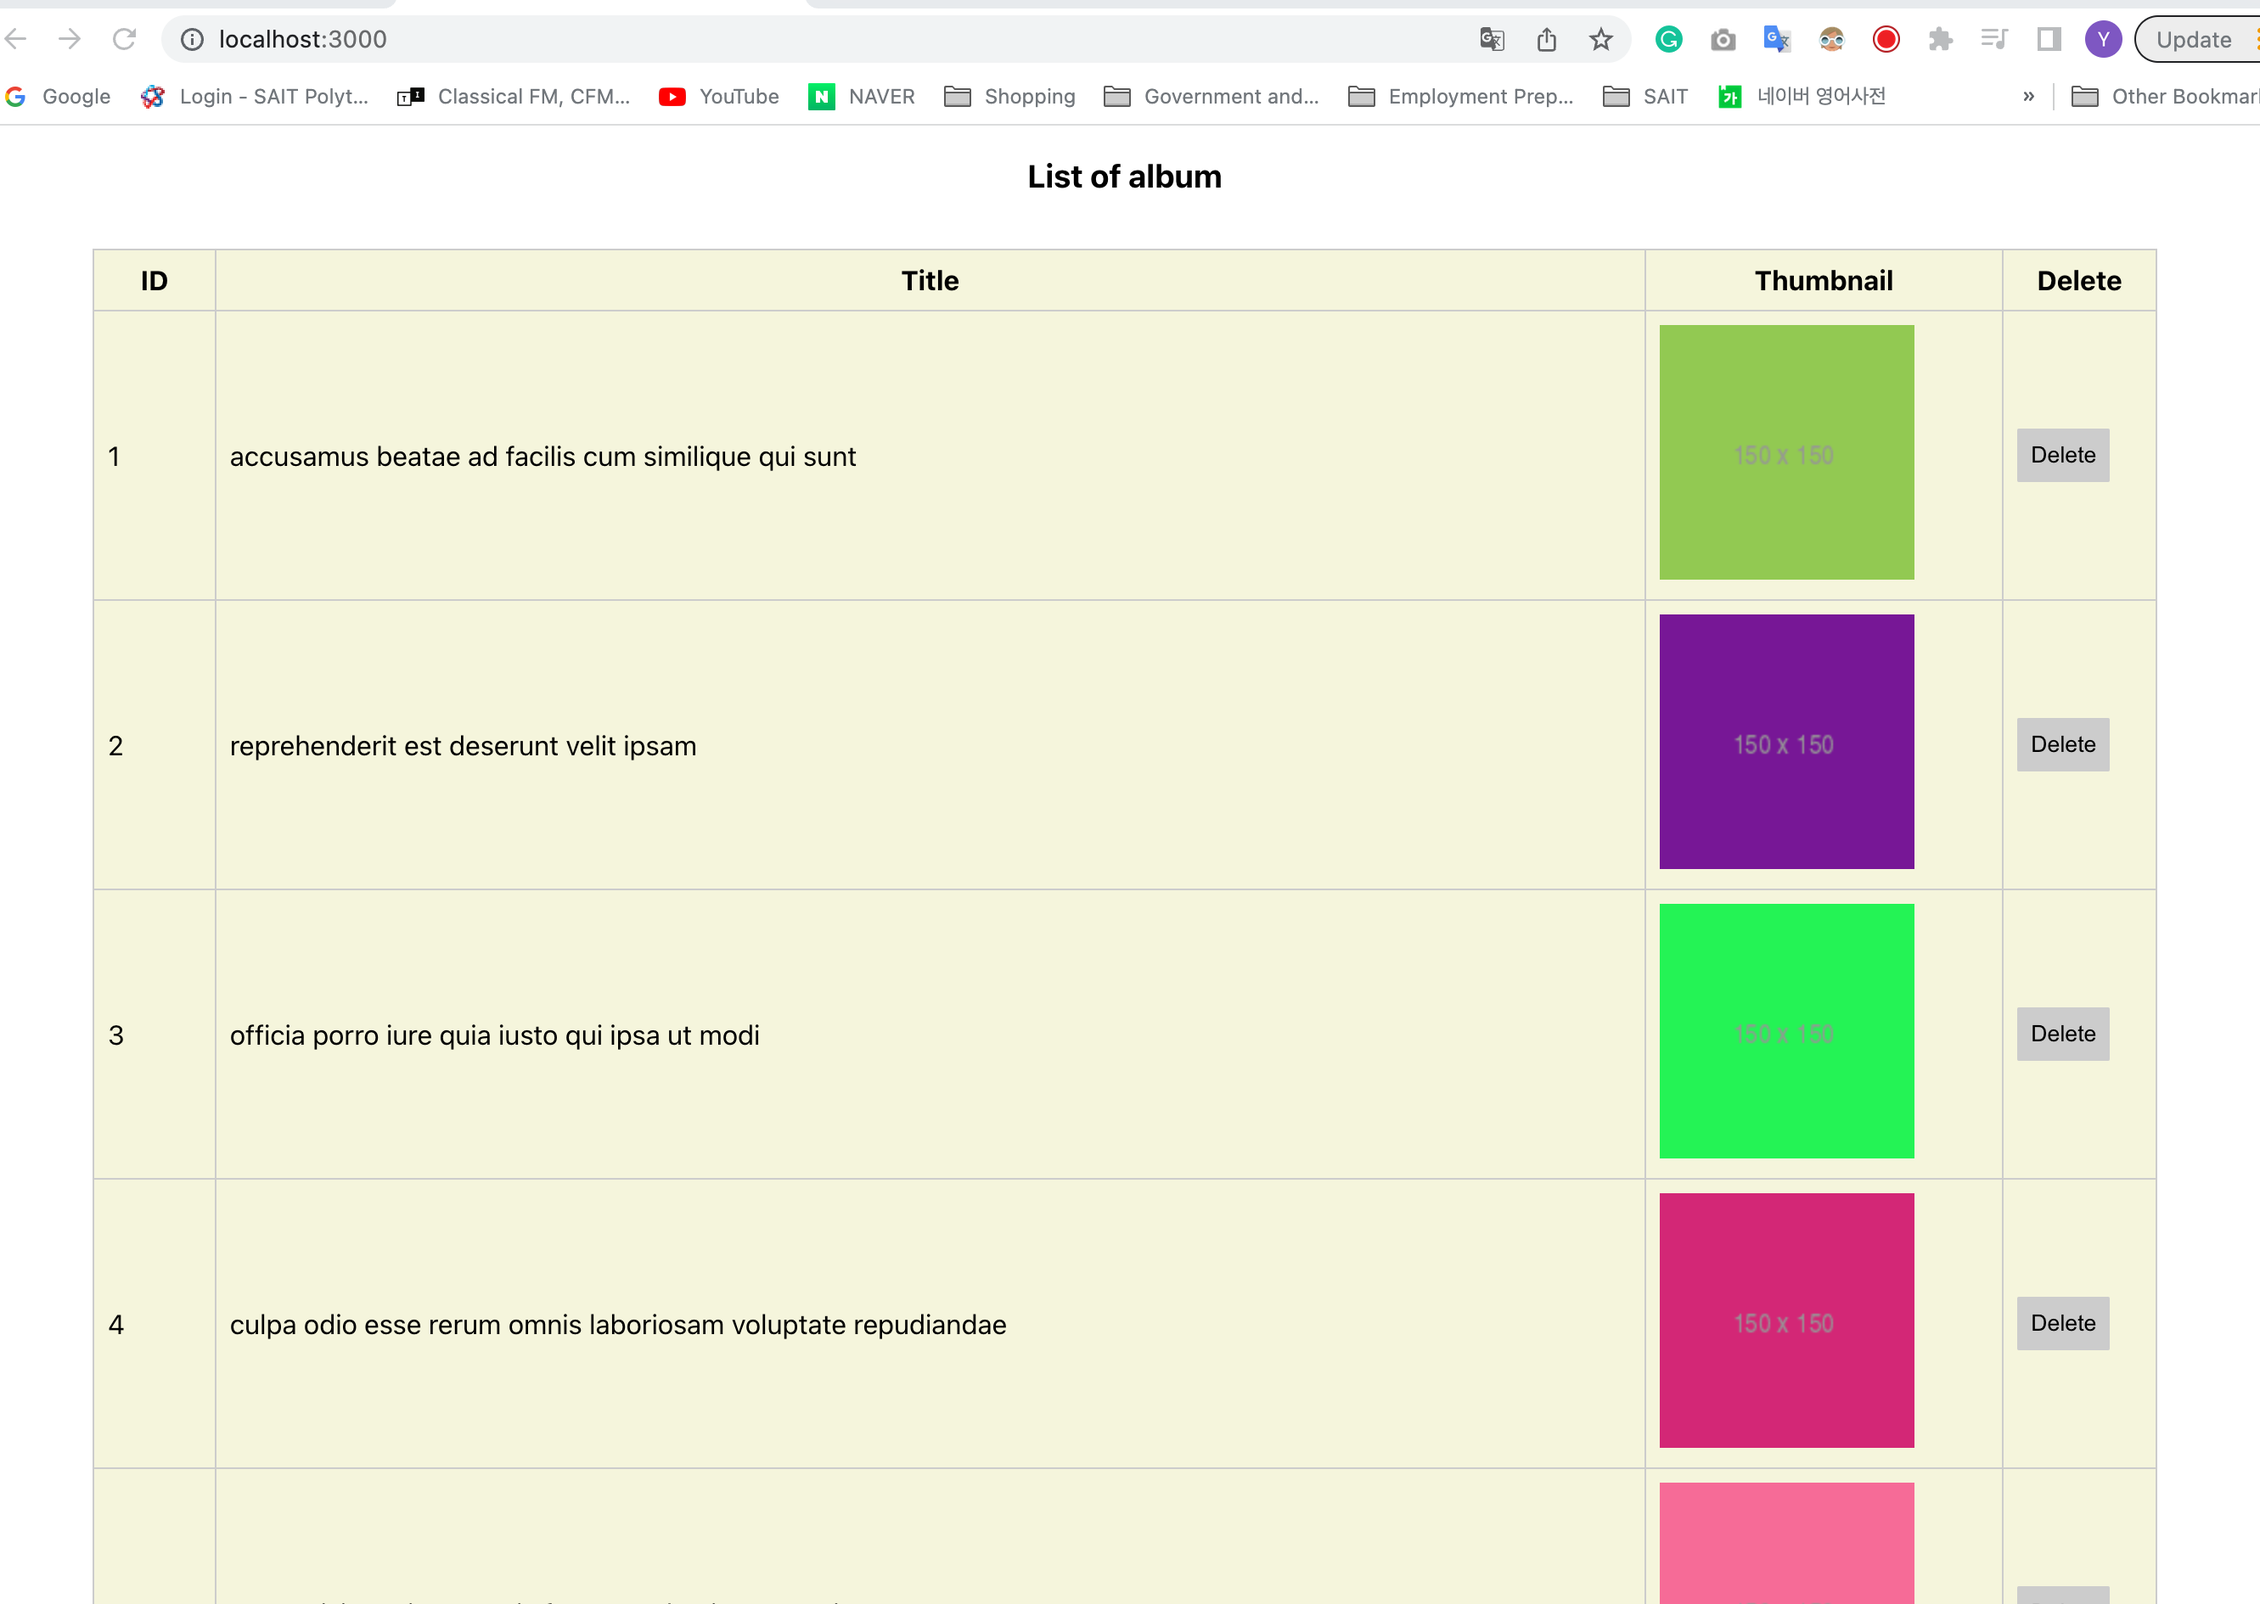
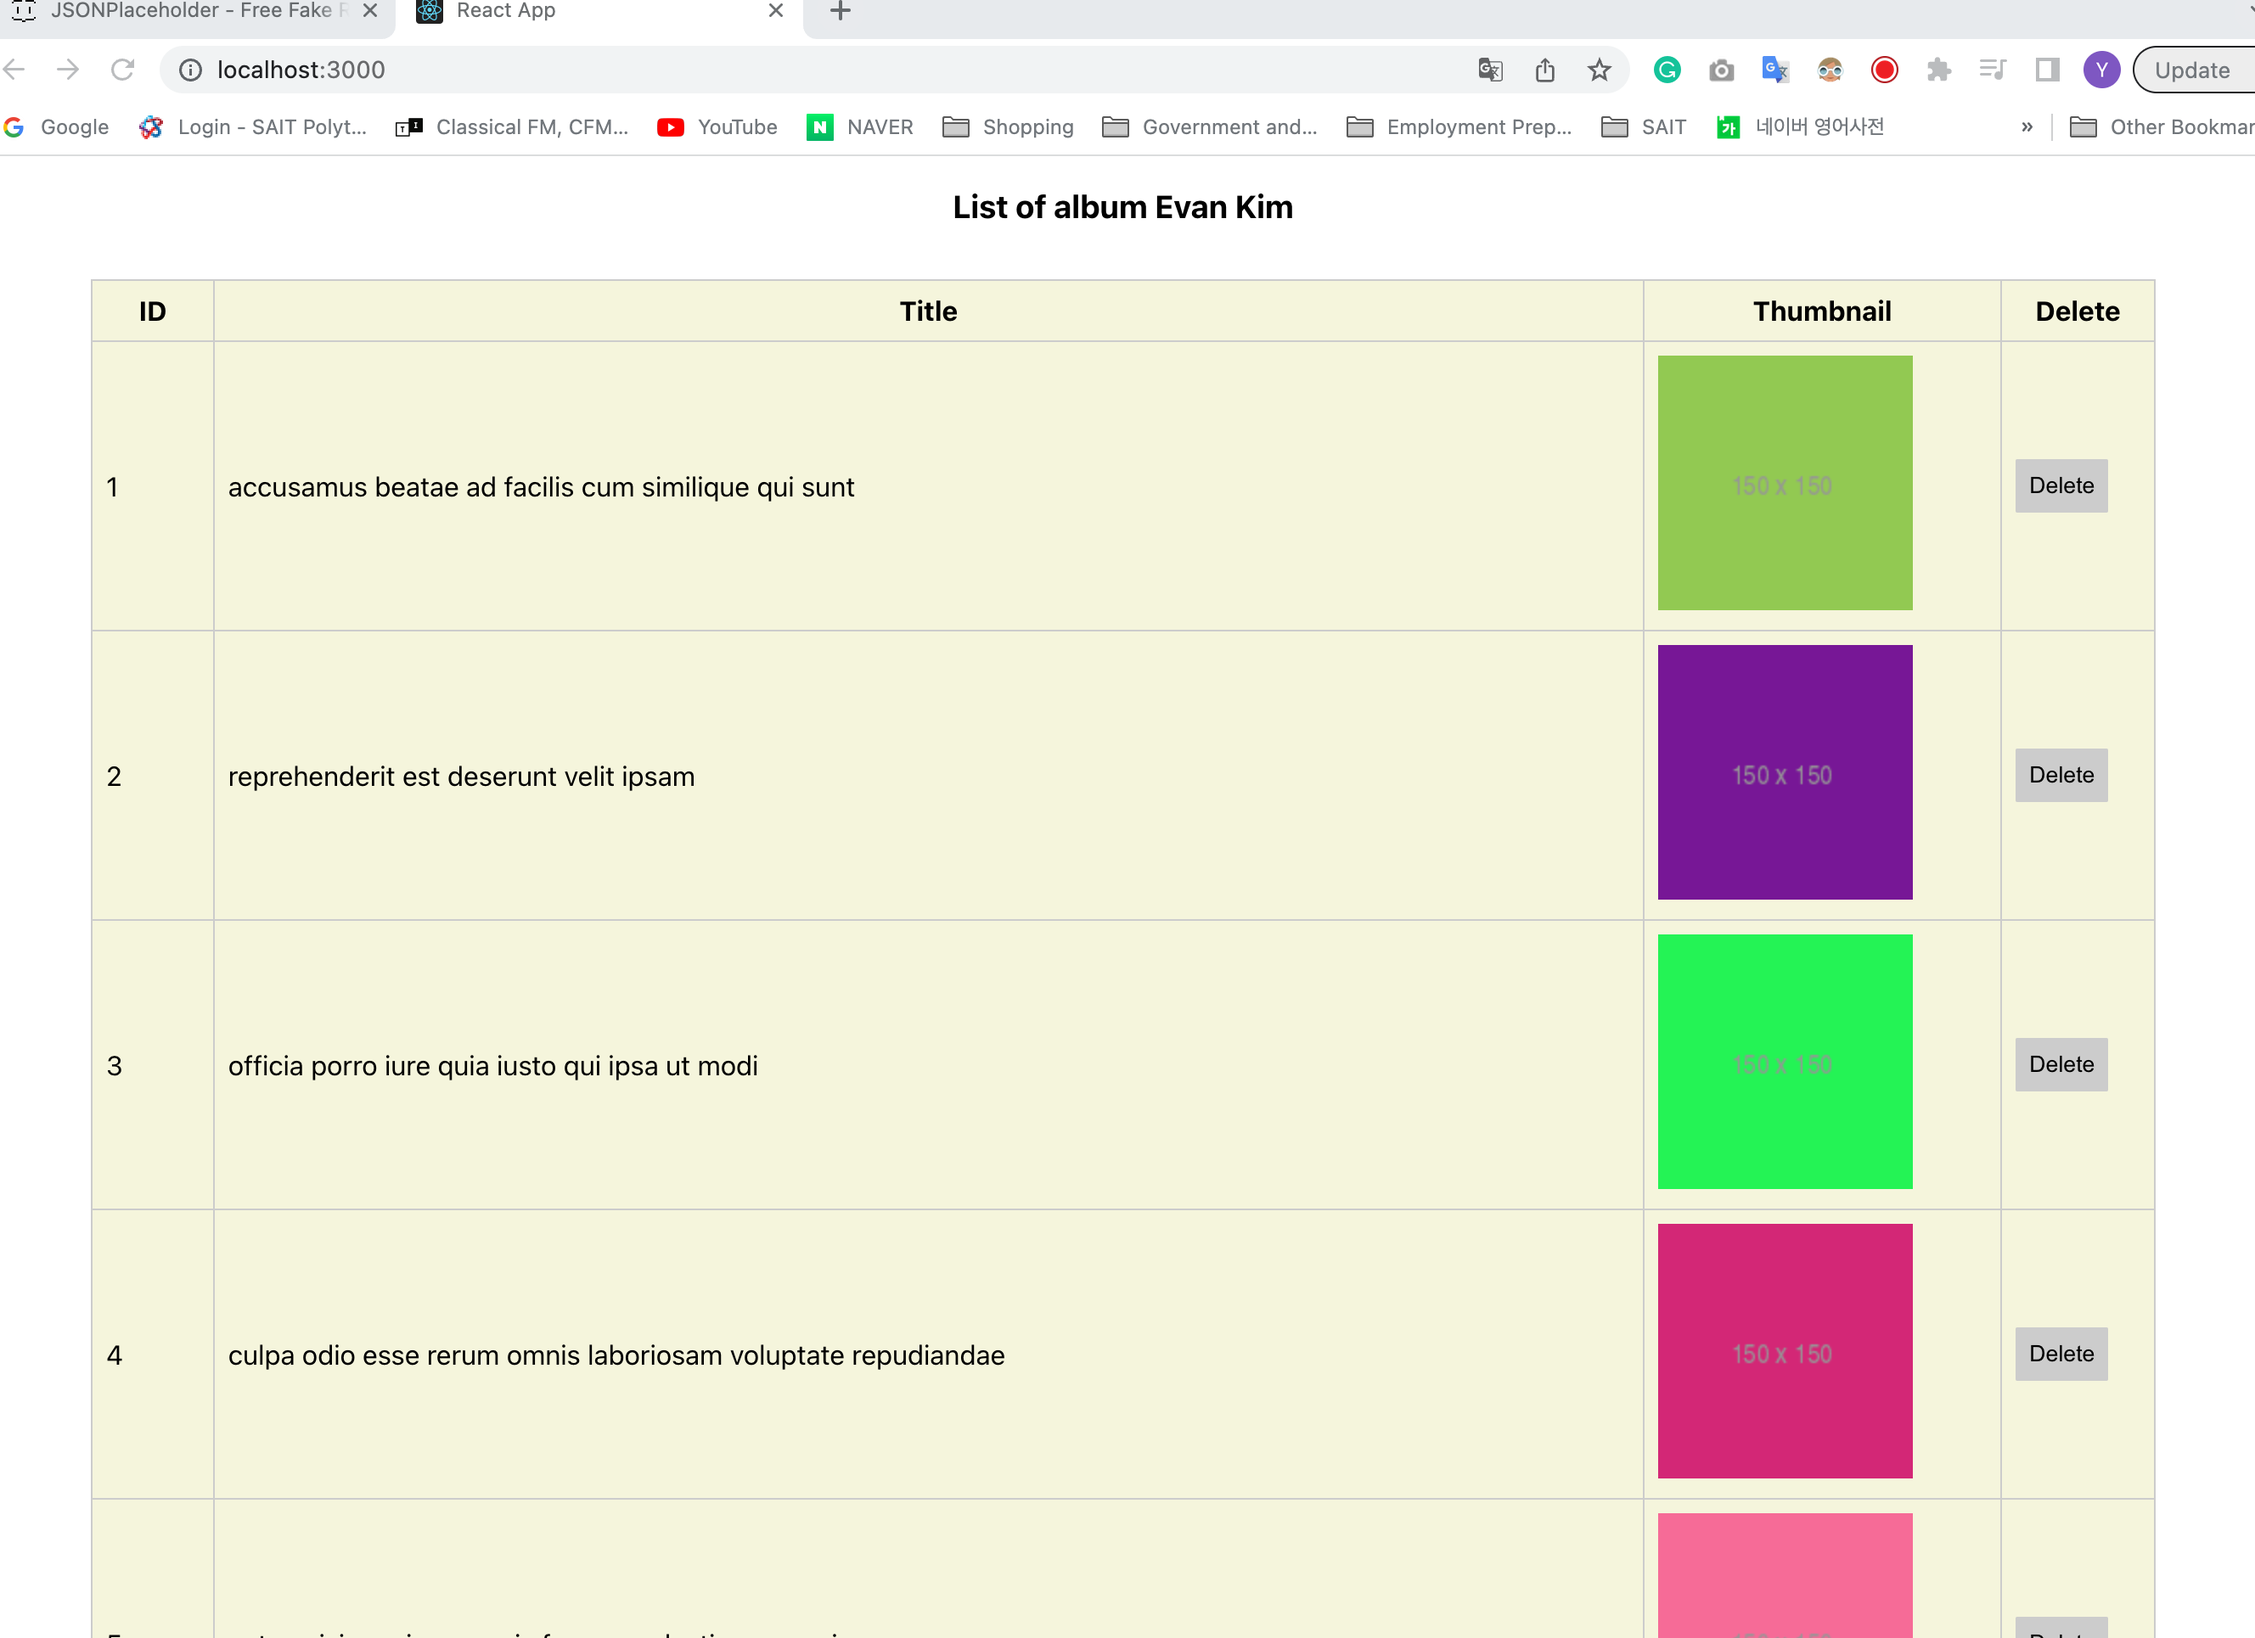
third commit

diff --git a/src/App.js b/src/App.js
@@ -68,7 +68,7 @@ function App() {
         <button onClick={postData}>Submit</button>
       </form>
 
-      <h3>List of album</h3>
+      <h3>List of album Evan Kim</h3>
 
       <table>
         <tr>
